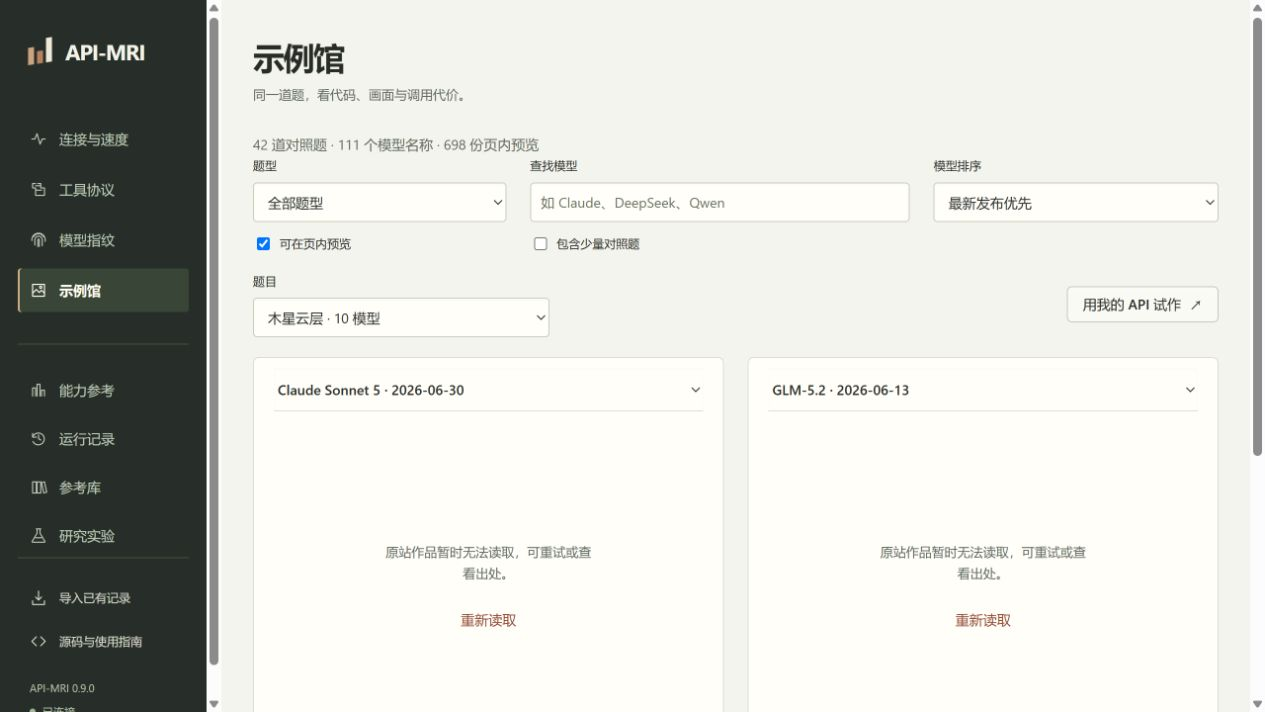
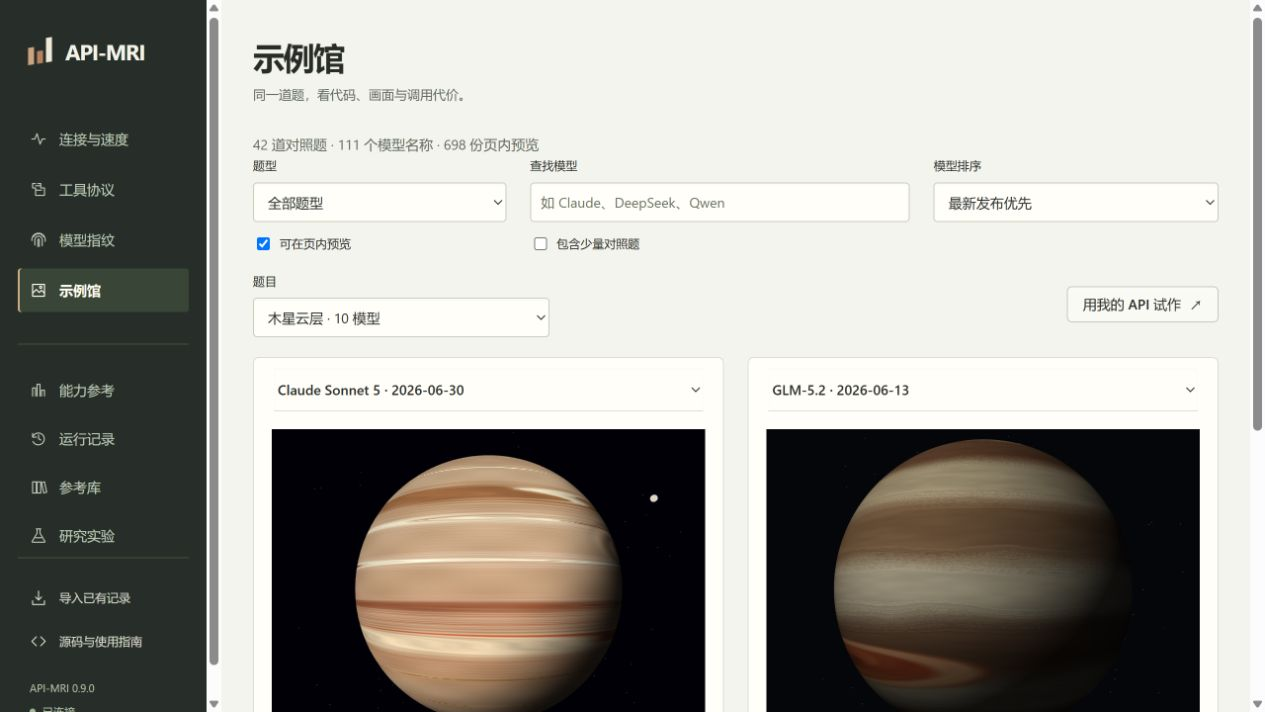
Ship a lean core runtime and version public data independently

Changed region(s): [[0.2158, 0.5871, 0.9557, 1.0], [0.9866, 0.5871, 1.0, 0.6489]]

diff --git a/src/relay_audit/static/app.js b/src/relay_audit/static/app.js
@@ -262,7 +262,7 @@
   }
   function route(focus = false) {
     const hash = location.hash.slice(1);
-    const target = views[hash] ? hash : "quality";
+    const target = views[hash] && !(hash==='research' && state.hasResearch===false) ? hash : "quality";
     const previous = state.view;
     state.view = target;
     const data = views[target];
@@ -1983,6 +1983,9 @@
       state.token = boot.session_token;
       state.ready = true;
       state.version = boot.version;
+      state.hasResearch = boot.capabilities?.research_extensions !== false;
+      document.querySelector('[data-view="research"]').hidden = !state.hasResearch;
+      if(!state.hasResearch && state.view==='research'){location.hash='quality';route();}
       state.embedOrigins = boot.embedding?.origins || [];
       state.bank = boot.identification_bank || { models: [] };
       state.packs = boot.reference_packs || [];
@@ -1996,7 +1999,7 @@
       $("connection-label").textContent = "已连接";
       renderPacks();
       renderLibrary();
-      initResearch();
+      if(state.hasResearch) initResearch();
       document.dispatchEvent(new CustomEvent("api-mri:workbench-ready"));
       if (pendingEmbedHello) acknowledgeEmbed(pendingEmbedHello);
       await loadHistory();

diff --git a/src/relay_audit/static/capabilities.js b/src/relay_audit/static/capabilities.js
@@ -41,6 +41,14 @@
   }
   $('capability-model').addEventListener('change',render);$('capability-query').addEventListener('input',options);
   document.addEventListener('api-mri:workbench-ready',load);
+  document.addEventListener('api-mri:workbench-ready',async()=>{
+    try {
+      const data=await window.apiMRI.request('/api/data-status');
+      const table=el('table',null,'capability-table'),body=el('tbody');
+      for(const row of data.entries){const tr=el('tr');tr.append(el('td',row.name),el('td',row.date||'日期未记录'),el('td',row.policy));body.append(tr);}
+      table.append(body);$('data-status-table').replaceChildren(table,el('p','指纹分布、效果题目与榜单分别持有版本。资料更新不改变旧记录采用的参考和方法。','muted'));
+    }catch{$('data-status-table').textContent='资料版本暂时无法读取。';}
+  });
   document.addEventListener('api-mri:view',e=>{if(e.detail?.view==='capabilities')load();});
   if(window.apiMRI?.ready())load();
 })();

diff --git a/src/relay_audit/static/app.css b/src/relay_audit/static/app.css
@@ -2505,4 +2505,5 @@ circle.illustration-sage {
 .benchmark-directory h3 {font-size:18px;margin:6px 0 10px;}
 .benchmark-directory p {font-size:13px;margin:6px 0;line-height:1.7;}
 .benchmark-category {font-size:11px;color:var(--muted);}
+.data-status {margin-bottom:24px;}.data-status summary{cursor:pointer;font-size:13px;padding:10px 0;}.data-status>div{overflow-x:auto;}.data-status p{font-size:12px;margin:12px 0;}
 @media(max-width:720px){.showcase .showcase-filters,.capability-controls {grid-template-columns:minmax(0,1fr) minmax(0,1fr);gap:12px;}.benchmark-directory{grid-template-columns:1fr;}.capability-table{min-width:550px;}}

diff --git a/src/relay_audit/static/showcase.js b/src/relay_audit/static/showcase.js
@@ -29,7 +29,7 @@
   function matches(item) {
     const query = $('showcase-model-search').value.trim().toLowerCase();
     return (!$('showcase-bundled-only').checked || item.preview_available)
-      && (!query || `${identity(item).name} ${item.model} ${item.reported_settings?.model_id || ''}`.toLowerCase().includes(query));
+      && (!query || `${identity(item).id} ${identity(item).name} ${item.model} ${item.reported_settings?.model_id || ''}`.toLowerCase().includes(query));
   }
   function link(label, href, cls) {
     const element = node("a", cls, label);

diff --git a/src/relay_audit/static/index.html b/src/relay_audit/static/index.html
@@ -537,6 +537,7 @@
         <div id="history-list"></div>
       </section>
       <section id="library-view" hidden aria-labelledby="library-heading">
+        <details class="data-status"><summary>资料版本与更新</summary><div id="data-status-table">正在读取资料版本。</div></details>
         <div class="section-heading">
           <div>
             <h2 id="library-heading">共同探针库</h2>

diff --git a/scripts/build_portable.py b/scripts/build_portable.py
@@ -77,7 +77,39 @@ def _version_info(version: str) -> str:
 '''
 
 
-def _spec(work: Path, folder: str) -> str:
+def _core_spec(work: Path, folder: str) -> str:
+    return f'''# Small workbench: no Torch, Inspect or Transformers.
+from pathlib import Path
+import sys
+from PyInstaller.utils.hooks import collect_data_files, collect_submodules, copy_metadata
+root = Path({str(ROOT)!r})
+work = Path({str(work)!r})
+datas = collect_data_files('relay_audit', include_py_files=False)
+datas += collect_data_files('certifi', include_py_files=True)
+ssl_policy = Path(sys.base_prefix) / 'Lib' / 'codex-rejected-cas.pem'
+if ssl_policy.is_file(): datas.append((str(ssl_policy), '.'))
+for package in ('api-mri','numpy','scipy','httpx','requests','fastapi','uvicorn'):
+    datas += copy_metadata(package, recursive=True)
+hidden = collect_submodules('relay_audit', filter=lambda name: name not in ('relay_audit.collect','relay_audit.stats'))
+hidden += ['uvicorn.logging','uvicorn.loops.asyncio','uvicorn.protocols.http.h11_impl','uvicorn.lifespan.on']
+a = Analysis([str(work/'portable_window_entry.py'),str(work/'portable_cli_entry.py')],
+    pathex=[str(root/'src')],binaries=[],datas=datas,hiddenimports=hidden,hookspath=[],hooksconfig={{}},runtime_hooks=[],
+    excludes=['relay_audit.collect','relay_audit.stats','torch','inspect_ai','transformers','model_equality_testing',
+        'openai','tiktoken','matplotlib','pandas','pytest','IPython','notebook','jupyter','tensorflow','jax','flax','PyQt5','PySide6'],
+    noarchive=False,optimize=1)
+pyz = PYZ(a.pure)
+window_scripts=[x for x in a.scripts if x[0]!='portable_cli_entry']
+cli_scripts=[x for x in a.scripts if x[0]!='portable_window_entry']
+window = EXE(pyz,window_scripts,[],exclude_binaries=True,name='API-MRI',console=False,
+    icon=str(work/'api-mri.ico'),version=str(work/'version_info.txt'),contents_directory='_internal')
+cli = EXE(pyz,cli_scripts,[],exclude_binaries=True,name='api-mri-cli',console=True,
+    icon=str(work/'api-mri.ico'),version=str(work/'version_info.txt'),contents_directory='_internal')
+bundle = COLLECT(window,cli,a.binaries,a.datas,strip=False,upx=False,name={folder!r})
+'''
+
+def _spec(work: Path, folder: str, *, profile='core') -> str:
+    if profile=='core':
+        return _core_spec(work,folder)
     # Normal import analysis follows Inspect's provider registry. Explicit
     # imports cover its runtime registry, uvicorn's loaders and lazy MET imports.
     return f'''# Generated by scripts/build_portable.py; paths are build-local.
@@ -142,7 +174,7 @@ bundle = COLLECT(window, cli, a.binaries, a.datas,
 '''
 
 
-def _copy_notices(bundle: Path) -> list[dict]:
+def _copy_notices(bundle: Path, *, profile='research') -> list[dict]:
     """Preserve wheel license trees and identify the exact build environment."""
     notices = bundle / "licenses"
     notices.mkdir()
@@ -220,8 +252,8 @@ def _copy_notices(bundle: Path) -> list[dict]:
         "License texts are copied unchanged from the installed distributions.\n"
         "build-manifest.json identifies versions and upstream project URLs.\n"
         "certifi and tqdm Python sources are retained under _internal.\n"
-        "Tcl's pinned upstream notice and actual runtime patchlevel are recorded under Tcl-Tk/Tcl.\n"
-        "The bundle uses the CPU build of PyTorch; no model weights are included.\n",
+        "Tcl's pinned upstream notice and actual runtime patchlevel are recorded under Tcl-Tk/Tcl.\n" +
+        ("Research profile uses CPU PyTorch; no model weights are included.\n" if profile=='research' else "Core profile omits Torch, Inspect and Transformers; no model weights are included.\n"),
         encoding="utf-8")
     return packages
 
@@ -236,6 +268,7 @@ def main(argv: list[str] | None = None) -> int:
     parser.add_argument("--out", type=Path, required=True,
                         help="New output directory; existing paths are refused")
     parser.add_argument("--no-zip", action="store_true", help="Leave an unpacked bundle for testing")
+    parser.add_argument('--profile',choices=['core','research'],default='core')
     args = parser.parse_args(argv)
     if sys.platform != "win32" or platform.machine().lower() not in {"amd64", "x86_64"}:
         parser.error("Build on Windows x64 with a 64-bit Python interpreter")
@@ -245,9 +278,14 @@ def main(argv: list[str] | None = None) -> int:
     if out.exists():
         parser.error("Output already exists; choose a new directory to preserve previous builds")
     # Verify the CPU wheel before creating any output.
-    import torch
-    if torch.version.cuda is not None or "+cpu" not in torch.__version__:
-        parser.error("Install the CPU-only PyTorch wheel before building")
+    if args.profile=='research':
+        import torch
+        if torch.version.cuda is not None or "+cpu" not in torch.__version__:
+            parser.error("Install the CPU-only PyTorch wheel before building")
+    else:
+        from importlib.util import find_spec
+        if any(find_spec(name) is not None for name in ('torch','inspect_ai','transformers')):
+            parser.error('Build core in a fresh environment using requirements-core-lock.txt')
     if metadata.version("pyinstaller") != "6.22.3":
         parser.error("Install scripts/requirements-build.txt first (PyInstaller 6.22.3)")
     project = tomllib.loads((ROOT / "pyproject.toml").read_text(encoding="utf-8"))
@@ -273,7 +311,7 @@ def main(argv: list[str] | None = None) -> int:
     _write_icon(work / "api-mri.ico")
     (work / "version_info.txt").write_text(_version_info(version), encoding="utf-8")
     spec = work / "API-MRI.spec"
-    spec.write_text(_spec(work, folder), encoding="utf-8")
+    spec.write_text(_spec(work, folder, profile=args.profile), encoding="utf-8")
     subprocess.run([sys.executable, "-X", "utf8", "-m", "PyInstaller", "--noconfirm",
                     "--distpath", str(out / "dist"), "--workpath", str(work / "pyinstaller"),
                     str(spec)], cwd=ROOT, check=True)
@@ -330,13 +368,13 @@ def main(argv: list[str] | None = None) -> int:
     if runtime_spec_path.is_file():
         runtime_spec = json.loads(runtime_spec_path.read_text(encoding="utf-8"))
         shutil.copy2(runtime_spec_path, bundle / "python-runtime.json")
-    packages = _copy_notices(bundle)
+    packages = _copy_notices(bundle,profile=args.profile)
     # Every distributed byte is accounted for, before generating the manifest.
     files = {str(path.relative_to(bundle)).replace("\\", "/"): {
         "size": path.stat().st_size, "sha256": digest(path)}
         for path in sorted(bundle.rglob("*")) if path.is_file()}
     manifest = {"schema": 1, "name": "API-MRI", "version": version,
-                "platform": "windows-x64", "python": platform.python_version(),
+                "platform": "windows-x64", "profile":args.profile, "python": platform.python_version(),
                 "pyinstaller": metadata.version("pyinstaller"),
                 "configured_ci_runtime": runtime_spec,
                 "runtime_version_matches_ci_spec": runtime_spec is not None and platform.python_version() == runtime_spec.get("version"),

diff --git a/src/relay_audit/web.py b/src/relay_audit/web.py
@@ -101,6 +101,9 @@ def validate_job(payload: Any, *, library_dir: Path | None = None) -> dict:
     if not isinstance(payload, dict):
         raise ValueError("请求应为JSON对象。")
     mode = payload.get("mode")
+    if mode in {'demo','lab','live','offline'}:
+        from .features import require_research
+        require_research()
     settings = _analysis_settings(payload)
     clean = {"mode": mode, **settings.model_dump()}
     if mode in {"showcase", "showcase_demo", "showcase_offline"}:
@@ -665,6 +668,11 @@ def create_app(runs_dir: Path | str = "runs/ui", *, library_dir: Path | str | No
         from .model_reference import capability_reference
         return capability_reference()
 
+    @app.get('/api/data-status')
+    def local_data_status():
+        from .data_registry import data_status
+        return data_status()
+
     @app.get('/capabilities.js')
     def capabilities_javascript():
         return FileResponse(STATIC / 'capabilities.js', media_type='text/javascript')
@@ -739,7 +747,11 @@ def create_app(runs_dir: Path | str = "runs/ui", *, library_dir: Path | str | No
 
     @app.get("/api/bootstrap")
     def bootstrap():
-        from .lab import list_scenarios
+        from .features import research_available
+        scenarios=[]
+        if research_available():
+            from .lab import list_scenarios
+            scenarios=list_scenarios()
         from .probes import list_probes
         from .fingerprint import list_reference_packs
         from .identification import load_identification_bank
@@ -751,9 +763,10 @@ def create_app(runs_dir: Path | str = "runs/ui", *, library_dir: Path | str | No
 
         return {"version": __version__, "session_token": session_token, "probes": list_probes(),
                 "embedding": {"origins": list(allowed_frames)},
-                "scenarios": list_scenarios(), "reference_packs": list_reference_packs(library_path),
+                "scenarios": scenarios, "reference_packs": list_reference_packs(library_path),
                 "identification_bank": identification_bank,
-                "capabilities": {"modes": ["showcase", "showcase_demo", "showcase_offline", "service", "service_demo", "service_offline", "identify", "identify_demo", "identify_offline", "fingerprint", "fingerprint_demo", "fingerprint_offline", "demo", "lab", "live", "offline"], "protocol": "Chat Completions", "local_only": True}}
+                "capabilities": {"research_extensions": research_available(),
+                    "modes": ["showcase", "showcase_demo", "showcase_offline", "service", "service_demo", "service_offline", "identify", "identify_demo", "identify_offline", "fingerprint", "fingerprint_demo", "fingerprint_offline"] + (["demo", "lab", "live", "offline"] if research_available() else []), "protocol": "Chat Completions", "local_only": True}}
 
     @app.get("/api/runs")
     def runs():

diff --git a/scripts/watch_public_data.py b/scripts/watch_public_data.py
@@ -1,0 +1,44 @@
+"""Create a small candidate ledger; never activate fingerprints or execute remote code."""
+from datetime import date
+import hashlib
+import json
+from pathlib import Path
+import requests
+
+ROOT=Path(__file__).resolve().parents[1]
+DATA=ROOT/'src/relay_audit/data'
+WATCH=[
+    ('kbf','https://api.github.com/repos/Ooo0ption/KBF/commits/main','sha','68aefbbab879469152aaac9fd988a86c30ee4739'),
+    ('pamela','https://zenodo.org/api/records/21278557','updated',None),
+    ('pamela-config','https://zenodo.org/api/records/21278793','updated',None),
+]
+def main():
+    output=ROOT/'build/data-candidates';output.mkdir(parents=True,exist_ok=True)
+    files={}
+    for name in ('model_reference.json','benchmark_snapshots.json'):
+        raw=(DATA/name).read_bytes()
+        value=json.loads(raw)
+        if len(raw)>4*1024*1024 or not isinstance(value,dict):raise ValueError('Candidate data too large or invalid')
+        (output/name).write_bytes(raw)
+        files[name]={'sha256':hashlib.sha256(raw).hexdigest(),'bytes':len(raw)}
+    watch=[]
+    for kind,url,key,pinned in WATCH:
+        try:
+            r=requests.get(url,timeout=20);r.raise_for_status();remote=r.json()
+            latest=remote.get(key)
+            active=pinned
+            state='review_upstream' if pinned and latest!=pinned else 'metadata_observed'
+            if kind.startswith('pamela'):
+                result=requests.get(url+'/versions/latest',timeout=20);result.raise_for_status()
+                active=url.rsplit('/',1)[1];latest=str(result.json()['id'])
+                state='new_version_needs_calibration' if latest!=active else 'current_record_is_latest'
+            watch.append({'source':kind,'url':url,'observed':latest,
+                'active_reference':active,'state':state,
+                'activation':'requires compatible probes, licensing, heldout and cross-date/provider calibration'})
+        except Exception as e:watch.append({'source':kind,'url':url,'state':'unavailable','error_type':type(e).__name__})
+    manifest={'schema':'api-mri.data-candidates.v1','created_at':date.today().isoformat(),
+        'state':'candidate_only','files':files,'upstream_watch':watch,
+        'fingerprint_activated':False,'code_updated':False,'model_api_calls':0}
+    (output/'manifest.json').write_text(json.dumps(manifest,ensure_ascii=False,indent=2)+'\n',encoding='utf8')
+    print(json.dumps({'candidate_files':len(files),'watch_sources':len(watch),'model_api_calls':0}))
+if __name__=='__main__':main()

diff --git a/scripts/check_portable.py b/scripts/check_portable.py
@@ -175,6 +175,10 @@ class Checker:
         require(manifest.get("user_data_included") is False, "Build manifest must exclude user data")
         self.default_data_files()
         self.version = manifest["version"]
+        self.profile = manifest.get('profile','research')
+        if self.profile=='core':
+            for module in ('torch','inspect_ai','transformers','model_equality_testing'):
+                require(not (self.bundle/'_internal'/module).exists(), f'Unexpected research dependency: {module}')
         return {"version": self.version, "executables": {
             path.name: {"bytes": path.stat().st_size, "sha256": digest(path)} for path in (self.cli, self.gui)},
             "default_data_has_user_files": False}
@@ -401,6 +405,12 @@ class Checker:
         require(not list((data / "runs").glob("*")), "GUI startup unexpectedly created model jobs")
         return {**result, "process_exited": True, "listening_port_closed": True, "unicode_data_path": True}
 
+    def research_guard(self) -> dict:
+        result=subprocess.run([str(self.cli),'demo','--out',str(self.out/'optional research')],cwd=self.out,env=self.env,
+            stdin=subprocess.DEVNULL,stdout=subprocess.PIPE,stderr=subprocess.PIPE,encoding='utf8',errors='replace',timeout=30)
+        require(result.returncode!=0 and '研究扩展' in result.stderr, 'Missing dependency must have an actionable message')
+        return {'research_runtime_included':False,'default_checks_available':True}
+
     def run(self) -> int:
         try:
             self.check("bundle_metadata", self.metadata)
@@ -412,7 +422,10 @@ class Checker:
             self.check("identify_replay", self.identify_replay)
             self.check("fingerprint_screening_and_replay", lambda: self.fingerprint("screening"))
             self.check("fingerprint_full_and_replay", lambda: self.fingerprint("full"))
-            self.check("inspect_met_demo", self.inspect_met)
+            if self.profile=='research':
+                self.check("inspect_met_demo", self.inspect_met)
+            else:
+                self.check('optional_research_guard',self.research_guard)
             self.check("gui_executable_start_and_stop", self.gui_smoke)
             self.check("default_data_remains_clean", lambda: {"files": self.default_data_files(), "user_data_included": False})
             self.results["status"] = "passed"

diff --git a/src/relay_audit/data_registry.py b/src/relay_audit/data_registry.py
@@ -1,0 +1,30 @@
+"""Small, local status ledger; reading this never checks the network."""
+from datetime import date
+import hashlib
+import json
+from pathlib import Path
+
+DATA=Path(__file__).parent/'data'
+
+def data_status() -> dict:
+    bank=DATA/'identification/one-token-202607.json'
+    model=DATA/'model_reference.json'
+    benchmark=DATA/'benchmark_snapshots.json'
+    examples=DATA/'showcase/catalog.json'
+    rows=[]
+    for identifier,title,path,policy in [
+        ('fingerprint','识别参考分布',bank,'新数据先检验协议与校准，验证后启用'),
+        ('models','模型目录',model,'每周检查，按快照更新'),
+        ('examples','效果例题与作品',examples,'精选题目，保留原始运行条件'),
+        ('benchmarks','公开榜单',benchmark,'每周留快照，分别保留评测版本'),
+    ]:
+        raw=path.read_bytes();value=json.loads(raw)
+        if identifier=='fingerprint':
+            stamp=value.get('collected_at',{}).get('last','')[:10]
+            label=value['id'];note='采集日期；跨期与跨渠道验证待补'
+        else:
+            stamp=value.get('retrieved_at') or max((e.get('source',{}).get('retrieved_at','') for e in value.get('examples',[])),default='')
+            label=hashlib.sha256(raw).hexdigest()[:12];note='快照日期'
+        rows.append({'id':identifier,'name':title,'date':stamp or None,'version':label,
+            'sha256':hashlib.sha256(raw).hexdigest(),'policy':policy,'note':note})
+    return {'checked_at':date.today().isoformat(),'network_requests':0,'entries':rows}

diff --git a/tests/test_features_and_data.py b/tests/test_features_and_data.py
@@ -1,0 +1,22 @@
+from relay_audit import features
+from relay_audit.data_registry import data_status
+from relay_audit.web import create_app,validate_job
+from fastapi.testclient import TestClient
+import pytest
+
+def test_core_keeps_everyday_modes_and_guards_optional_research(tmp_path,monkeypatch):
+    monkeypatch.setattr(features,'find_spec',lambda name:None)
+    with TestClient(create_app(tmp_path),base_url='http://127.0.0.1:8765') as client:
+        boot=client.get('/api/bootstrap').json()
+        assert boot['capabilities']['research_extensions'] is False
+        assert {'service','identify','fingerprint','showcase'}<=set(boot['capabilities']['modes'])
+        assert 'demo' not in boot['capabilities']['modes'] and boot['scenarios']==[]
+        assert client.get('/api/data-status').json()['network_requests']==0
+    with pytest.raises(ValueError,match='研究扩展'):validate_job({'mode':'demo'})
+
+def test_fingerprint_status_reports_collection_instead_of_build_date():
+    data=data_status()
+    bank=next(x for x in data['entries'] if x['id']=='fingerprint')
+    assert bank['date']=='2026-07-08'
+    assert len(bank['sha256'])==64
+    assert {x['id'] for x in data['entries']}=={'fingerprint','models','examples','benchmarks'}

diff --git a/tests/test_model_reference.py b/tests/test_model_reference.py
@@ -15,6 +15,7 @@ def test_aliases_join_vendor_names_but_preserve_configuration_and_snapshots():
     assert a['release_date']=='2026-09-22'
     assert model_identity('Claude Haiku 4.5')['id']==model_identity('anthropic/claude-haiku-4.5')['id']
     assert model_identity('GPT-5.5 high')['variant']=='high'
+    assert model_identity('Opus 4.8')['id']==model_identity('Claude-Opus-4.8')['id']
     assert model_identity('GPT-5.5')['id'] != model_identity('GPT-5.6-Sol')['id']
     assert model_identity('unlisted-new-model')['release_date'] is None
     assert model_identity('Qwen3.6-27B-PRISM-PRO-DQ-agent')['id'] != model_identity('Qwen3.6-27B-PRISM-PRO-DQ-code')['id']
